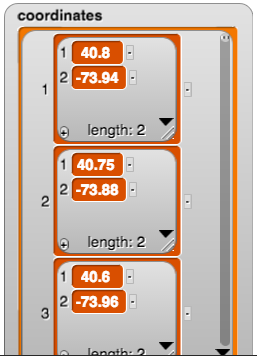
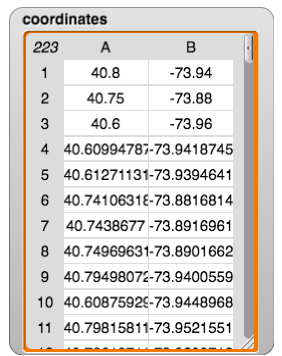
U4 - fixes to curric due to table view and optionalizing map

diff --git a/cur/programming/4-internet/2-gps-data/1-big-burger.html b/cur/programming/4-internet/2-gps-data/1-big-burger.html
@@ -19,36 +19,8 @@
 		
 		<p>When read into Snap<em>!</em>, the list of lists looks like this:</p>
 		
-		<img src="/bjc-r/img/4-internet/gpslist.png" width="20%" alt="List of GPS coordinates">
+		<img class="indent" src="/bjc-r/img/4-internet/coordinates-list-of-lists.png" alt="list of lists of coordinate pairs" title="list of lists of coordinate pairs">
 
-        <p>Here are the first few data entries in a table:</p>
-        <table id="tableBlue">
-            <tr>
-                <td>40.8</td>
-                <td>-73.94</td>
-            </tr>
-            <tr>
-                <td>40.75</td>
-                <td>-73.88</td>
-            </tr>
-            <tr>
-                <td>40.6</td>
-                <td>-73.96</td>
-            </tr>
-            <tr>
-                <td>40.60994787</td>
-                <td>-73.94187456</td>
-            </tr>
-            <tr>
-                <td>40.61271131</td>
-                <td>-73.93946415</td>
-            </tr>
-			<tr>
-                <td align="center">&#8942;</td>
-                <td align="center">&#8942;</td>
-            </tr>
-        </table>
-        
         <div class="takeNote"> Each line of data gives a <strong>latitude</strong> and <strong>longitude</strong>, a pair of <strong>GPS coordinates</strong>. GPS, the <strong>Global Positioning System</strong>, has changed how people travel, navigate, and find information about locations all over the world.</div>
 
     </body>

diff --git a/cur/programming/4-internet/5-weather-app/3-weather-report.html b/cur/programming/4-internet/5-weather-app/3-weather-report.html
@@ -23,15 +23,15 @@
 </div>
         
         <p>
-            The weather report should take a list of cities like this...
+            The weather report should take a list of cities like this...<br />
 			<div class="sidenote">As part of this work you can choose to create "cleaner" entry of city names. To do this, you'll need to convert names like <strong>New York, NY</strong> to <strong>New+York,NY</strong>. Snap<em>!</em> blocks that convert words to lists, and lists to words, can make this possible.
 			</div>
-            <img src="/bjc-r/img/4-internet/citieslist.png" width="20%" align="middle" alt="List of cities">
+            <img class="indent noshadow" src="/bjc-r/img/4-internet/citieslist.png" alt="List of cities" title="List of cities" />
         </p>
         
         <p>
-            ... and produce a report like this:
-            <img src="/bjc-r/img/4-internet/citiesreport.png" width="20%" align="middle" alt="Weather report for cities">
+            ... and produce a report like this:<br />
+            <img class="indent noshadow" src="/bjc-r/img/4-internet/citiesreport.png" alt="Weather report for cities" title="Weather report for cities" />
         </p>
         
 		<div class="ifTime">

diff --git a/cur/programming/4-internet/1-web-data/4-scraping.html b/cur/programming/4-internet/1-web-data/4-scraping.html
@@ -38,7 +38,7 @@
                 	Convert this list into a list of lists, where each inside list contains each piece of the coordinate pair, like this:<br />
 					<div class="sidenoteBig">
                         <p>You will need to use the <code>split</code> block a second time. Experiment with different options for the second input slot. Read the <code>split</code> help screen (right-click a <code>split</code> block and choose "Help") if you need ideas.</p>
-                        <p>Think back to Unit 3. How can you perform a function (in this case, <code>split</code>) to each item in the input list?</p>
+                        <p>Use <code>map</code> to perform a function (in this case, <code>split</code>) to each item in the input list.</p>
                     </div>
                     <img class="indent" src="/bjc-r/img/4-internet/coordinates-list-of-lists.png" alt="list of lists of coordinate pairs" title="list of lists of coordinate pairs" />
                 </li>
